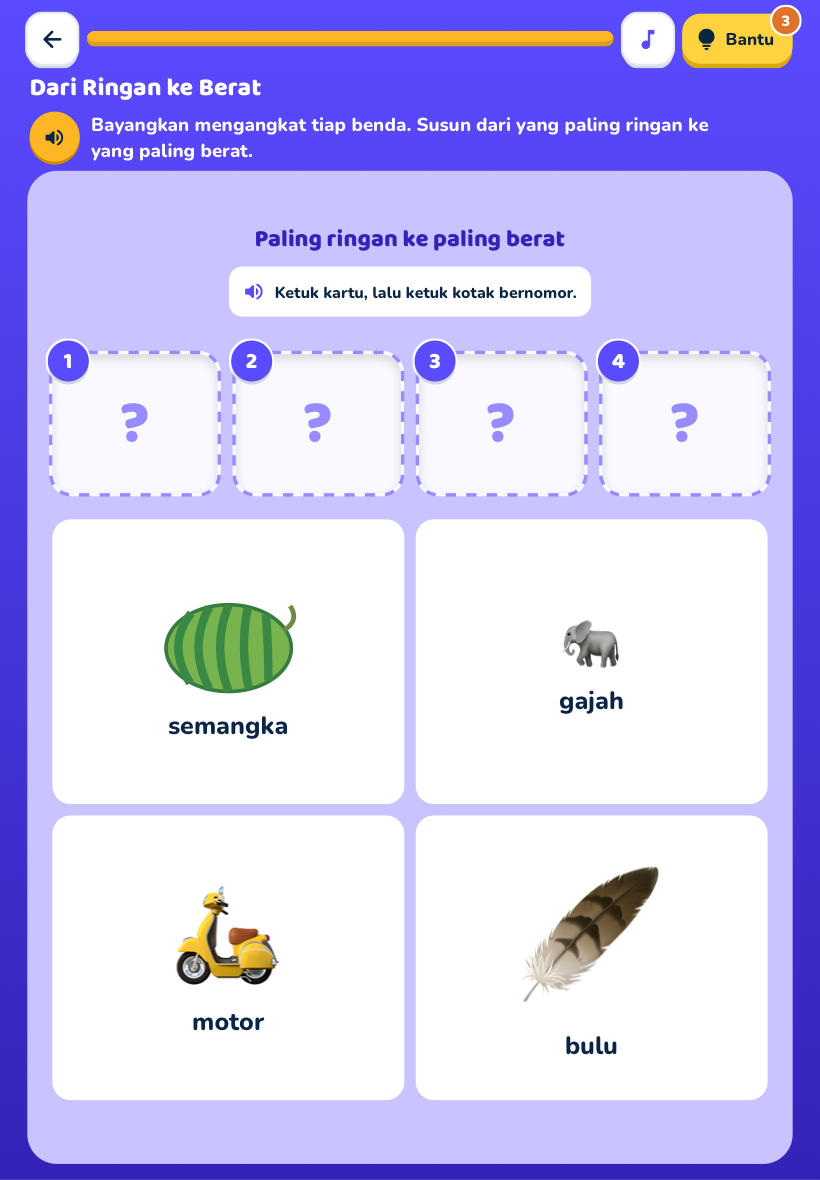
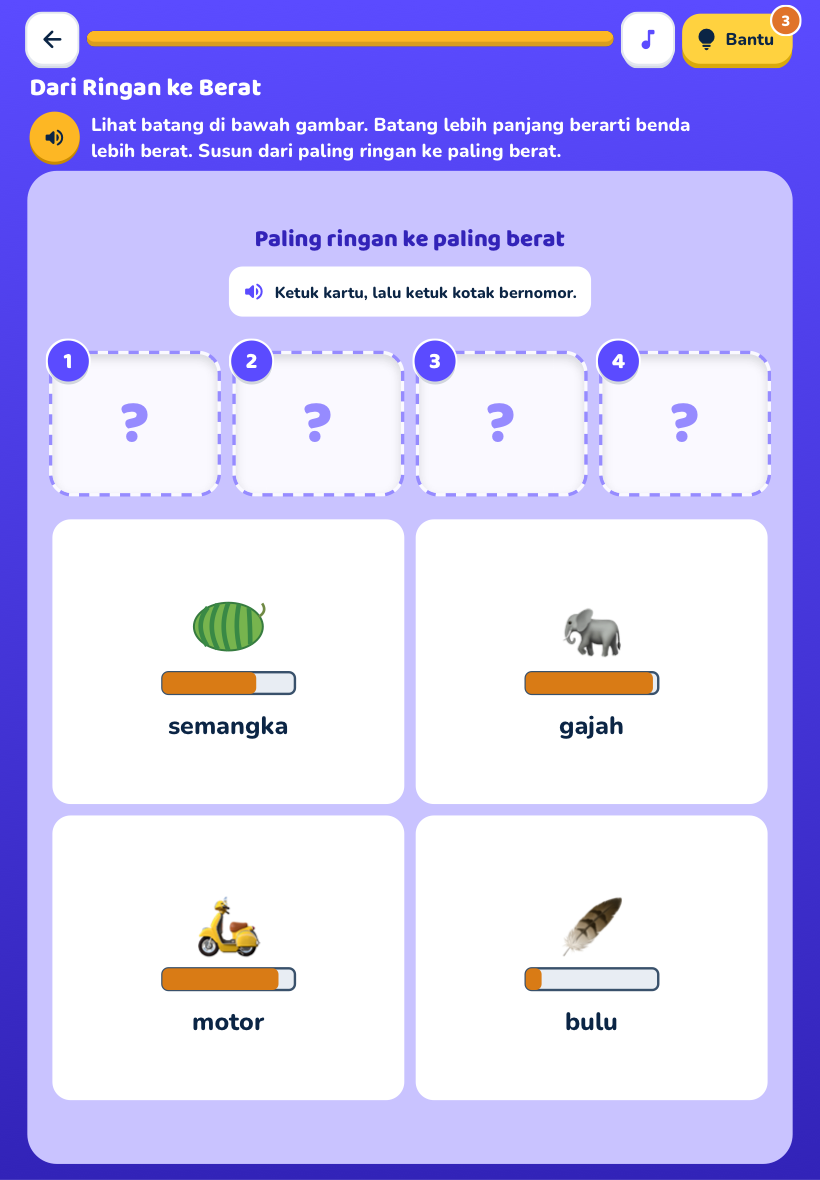
Perbarui bukti QA 30 sesi setelah integrasi main

diff --git a/docs/qa/pilot-m26-30/README.md b/docs/qa/pilot-m26-30/README.md
@@ -1,8 +1,8 @@
 # QA lokal Pilot M26–30 — 26 November 2026
 
-Worktree terpisah `codex/qa-pilot-m26-30`, mulai dari `origin/main` 6044a55c lalu sinkron ke 262c4255 dan 816e4049. Nomor berasal dari `petaJenjang` SD1 dengan track MAT, KODE, SAINS: 5 misi / 10 paket utama. Perbaikan sesi M21–25, M32–36, dan M37–42 dipertahankan.
+Worktree terpisah `codex/qa-pilot-m26-30`, mulai dari `origin/main` 6044a55c lalu sinkron ke 262c4255, 816e4049, dan db33e758. Nomor berasal dari `petaJenjang` SD1 dengan track MAT, KODE, SAINS: 5 misi / 10 paket utama. Perbaikan sesi M21–25, M26–31 (#242), M32–36, dan M37–42 dipertahankan.
 
-Playwright WebKit dengan sentuhan emulasi, bukan perangkat fisik: HP 390×844, iPad 820×1180, dan 820×1067 (screen tetap 820×1180 untuk ruang Safari). **30 sesi / 300 ronde, semua mencapai layar hasil 10/10 tanpa bantuan atau kegagalan.** Seed berbeda per ukuran. Input menggunakan UI kartu/slot/rak dan petak prediksi, hasil diperiksa pada layar dan event lokal. Seluruh ronde akhir terukur tanpa overflow horizontal, gulir vertikal, atau clipping teks kartu. Instruksi HP yang diringkas dapat dibuka lewat tombol baca lengkap.
+Playwright WebKit dengan sentuhan emulasi, bukan perangkat fisik: HP 390×844, iPad 820×1180, dan 820×1067 (screen tetap 820×1180 untuk ruang Safari). **30 sesi / 300 ronde, semua mencapai layar hasil 10/10 tanpa bantuan atau kegagalan.** Seed berbeda per ukuran. Input menggunakan UI kartu/slot/rak dan petak prediksi, hasil diperiksa pada layar dan event lokal. Pengukuran tampilan awal tiap ronde tidak menemukan overflow horizontal, gulir vertikal, atau clipping teks kartu; screenshot juga merekam tahap lanjut pengisian. Instruksi HP yang diringkas dapat dibuka lewat tombol baca lengkap.
 
 ## Status setiap paket
 
@@ -23,15 +23,15 @@ Playwright WebKit dengan sentuhan emulasi, bukan perangkat fisik: HP 390×844, i
 
 - **M26–28 tata letak:** kotak kosong dua baris mengambil terlalu banyak tempat; gambar kecil dan label panjang terlipat. Slot kini satu baris, pilihan dua kolom dengan gambar lebih besar, ukuran mengikuti tinggi layar. Petunjuk ketuk-kartu/ketuk-slot ditampilkan. Pada iPad awal, beberapa ronde memerlukan gulir 44–67 px; setelah perbaikan semua ronde teruji muat tanpa gulir.
 - **M26 gambar:** peluit semula megafon, mobil es krim hanya es krim, beduk memakai drum, kentongan hanya kayu, dan mangkuk bakso hanya panci makanan. Adegan jarak kini mendukung ilustrasi sumber yang terdaftar; gambar sesuai konteks dan jarak pendengar tetap 0 → 0,3 → 0,65 → 1 sesuai urutan jawaban.
-- **M27 gambar:** semangka untuk membandingkan berat diganti dari irisan menjadi buah utuh. Kunci urutan tetap sesuai benda yang disebut; ukuran gambar bukan skala massa.
-- **M28 gambar:** cangkir, mangkuk, dan panci tidak lagi berisi minuman/makanan saat diminta membayangkan kapasitas air. Skala wadah yang sebelumnya mengecil untuk benda besar dibetulkan; sendok tidak lagi tampak lebih besar daripada bak mandi. Skala ilustratif, bukan perbandingan volume numerik.
+- **M27 gambar:** semangka untuk membandingkan berat diganti dari irisan menjadi buah utuh. Petunjuk batang berat, kunci konsisten antarsekuens, dan audio terbaru dari PR #242 dipertahankan; ukuran emoji bukan petunjuk massa.
+- **M28 gambar:** cangkir, mangkuk, dan panci tidak lagi berisi minuman/makanan saat diminta membayangkan kapasitas air. Petunjuk batang kapasitas, skala ikon seragam, serta instruksi/audio PR #242 dipertahankan. Batang yang lebih panjang menunjukkan kapasitas lebih besar, bukan ukuran ikon. 
 - **M29 prediksi:** kedua varian berhasil pada maju, belok, dan langkah berulang. 52 program pada bank peta diuji mencapai bintang dan tidak keluar petak. Tidak perlu perubahan mekanik navigasi.
-- **M30 gambar:** kulkas semula persegi panjang tanpa detail, kipas pusaran, jam baterai berupa jam bandul, bel listrik hanya lonceng. Diganti ilustrasi alat yang jelas. Kunci tetap membedakan listrik (termasuk baterai) dan tanpa listrik.
+- **M30 gambar:** kulkas semula persegi panjang tanpa detail, kipas pusaran, jam baterai berupa jam bandul, bel listrik hanya lonceng. Ilustrasi kipas/kulkas dari PR #242 dipertahankan, sementara jam baterai dan bel listrik diperjelas di PR ini. Kunci tetap membedakan listrik (termasuk baterai) dan tanpa listrik.
 
 ## Audio, validasi, dan batas pengujian
 
-Sepuluh tombol audio instruksi diuji: semua berkas HTTP 200 dan didekode dengan durasi positif (`audio.json`). Teks instruksi/narasi tidak diubah. Ini pemeriksaan teknis audio, bukan evaluasi pelafalan melalui pendengaran. Soal dan label diperiksa dari konten serta screenshot; pengujian tidak memakai akun anak atau mengirim progres ke server.
+Sepuluh tombol audio instruksi diuji: semua berkas HTTP 200 dan didekode dengan durasi positif (`audio.json`). Instruksi/narasi terbaru tentang batang di M27/M28 dari PR #242 ikut diuji ulang. Ini pemeriksaan teknis audio, bukan evaluasi pelafalan melalui pendengaran. Soal dan label diperiksa dari konten serta screenshot; pengujian tidak memakai akun anak atau mengirim progres ke server.
 
-855 tes dalam 101 berkas lulus setelah sinkronisasi main; 810 paket valid, TypeScript `--noEmit`, lint komponen perubahan dan `git diff --check` lulus. Regresi mencakup peta gabungan, keterlihatan sumber bunyi SVG, urutan jarak, skala wadah, dan seluruh program M29. Skrip browser tersimpan pada `scripts/qa/pilot-m26-30.mjs`; jalankan dari root worktree dengan Playwright tersedia, `RUMILA_QA_PORT=39863`, dan opsional `PLAYWRIGHT_MODULE` untuk lokasi modul. Contoh: `RUMILA_QA_OUTPUT=/tmp/qa-pilot node scripts/qa/pilot-m26-30.mjs --no-art`.
+863 tes dalam 102 berkas lulus setelah sinkronisasi main; 810 paket valid, TypeScript `--noEmit`, lint komponen perubahan dan `git diff --check` lulus. Regresi mencakup peta gabungan, keterlihatan sumber bunyi SVG, urutan jarak, konsistensi batang kapasitas, dan seluruh program M29. Skrip browser tersimpan pada `scripts/qa/pilot-m26-30.mjs`; jalankan dari root worktree dengan Playwright tersedia, `RUMILA_QA_PORT=39863`, dan opsional `PLAYWRIGHT_MODULE` untuk lokasi modul. Contoh: `RUMILA_QA_OUTPUT=/tmp/qa-pilot node scripts/qa/pilot-m26-30.mjs --no-art`.
 
-Bukti akhir hanya berasal dari server worktree sendiri pada port 39863; port awal 3876 ternyata sudah dipakai sesi lain, sehingga hasil dari port itu tidak digunakan. Data ringkas 30 sesi ada di `hasil.json`; 60 screenshot hasil/ronde padat ada di `bukti/`. Produksi diverifikasi setelah merge melalui `/api/versi`, rute paket, dan bundle aplikasi; permainan lengkap dilakukan lokal.
+Bukti akhir hanya berasal dari server worktree sendiri pada port 39863; port awal 3876 ternyata sudah dipakai sesi lain, sehingga hasil dari port itu tidak digunakan. Setelah integrasi PR #242, seluruh 30 sesi dimainkan ulang dan semua screenshot diganti dengan hasil integrasi akhir. Ronde padat dipilih berdasarkan jumlah kartu atau langkah prediksi yang tampil. M30 menampilkan enam kartu per ronde sesuai batas setengah stok pada mekanik generatif. Data ringkas 30 sesi ada di `hasil.json`; 60 screenshot hasil/ronde padat ada di `bukti/`. Produksi diverifikasi setelah merge melalui `/api/versi`, rute paket, dan bundle aplikasi; permainan lengkap dilakukan lokal.
